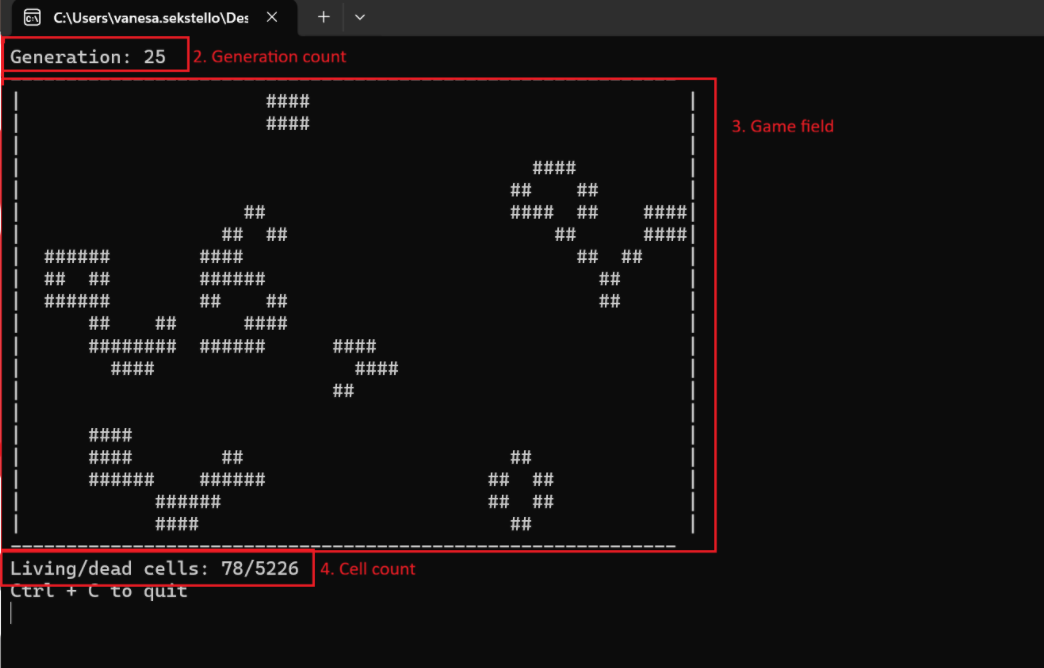
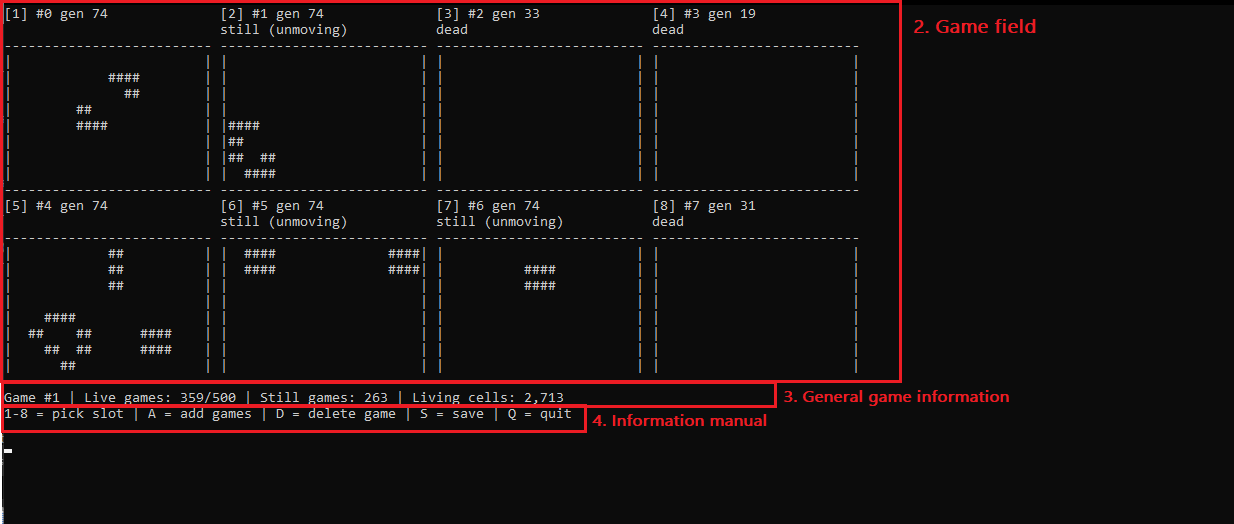
README.md changes

diff --git a/README.md b/README.md
@@ -1,8 +1,36 @@
-# Terminal Screenshots
+### Terminal Screenshots
 
 -- Game menu --
-![Size menu](docs/images/menu.png)
+![Menu](docs/images/inputfield.png)
+1. Input field: 
+    - User may input the amount of desired games to be generated
 
 
--- Running game --
+-- Running games --
 ![Game running](docs/images/game.png)
+2. Game field display:
+    - Displays 8 game generations simultaneously,
+    - Displays the ID number of each game,
+    - Displays information if the game is dead/alive (has any remaining cells), or unmoving (no cell updates)
+
+3. General game information:
+    - Displays nth game based on save files of any previous games,
+    - Displays amount of live/dead/still games (still containing any cells/not containing any cells/containing unmoving cells, respectively),
+    - Displays total amount of living cells
+
+4. Information manual, informs user of keybinds:
+    1-8 - picks a slot to display any game of choice based off its id,
+    A - adds a number of games based off the users input,
+    D - deletes a game based off the users input,
+    S - saves current generation of all games to a file that can later be launched again,
+    Q - quits the terminal
+
+![Save menu](docs/images/savemenu.png)
+5. Save input field:
+    - Prompts user to choose between launching a saved game or creating a new one
+
+6. Saved game list:
+    - Lists all previous saved game files to be choosen
+
+7. Save input field
+    - Prompts user to choose between saved games, or create a new game.
